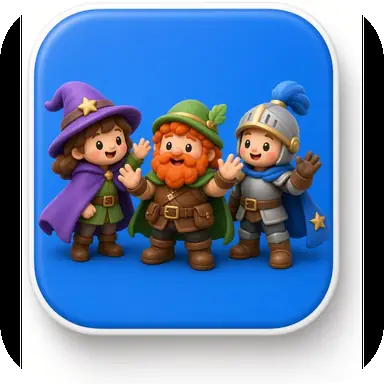
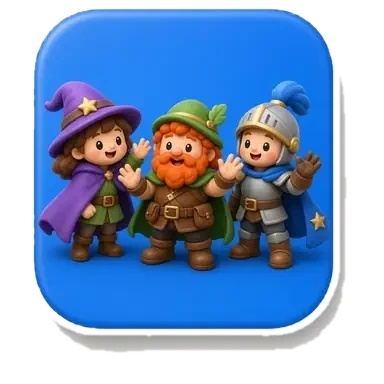
学習するボタンの下に、ほかの施設のアイコンを並べる。絵の背景を透明にする（判断325）
Claude-Session: https://claude.ai/code/session_01XyPdx9GvFrV21oECaXxgAy

diff --git a/js/ui/renewal.js b/js/ui/renewal.js
@@ -304,6 +304,21 @@
    button(R.records,function(){U.show('study',{tab:'records'});},'text-button'),button(R.exam,function(){U.show('study',{tab:'exam'});},'text-button'),button(R.diagnosis,function(){U.show('study',{tab:'diagnosis'});},'text-button'),button(R.redeem,function(){U.openRedeem();},'text-button')
   ]));
  }
+ // 町のほかの施設（判断324）。絵は img/art/fac-*.webp。使えるのは、チケット引換所（引換所）だけ。ほかは、これから作る
+ var FACILITIES=[
+  {id:'weapon',name:R.facWeapon},{id:'armor',name:R.facArmor},{id:'item',name:R.facItem},{id:'tavern',name:R.facTavern},
+  {id:'party',name:R.facParty},{id:'magic',name:R.facMagic},{id:'ticket',name:R.facTicket,open:function(){U.openRedeem();}},{id:'training',name:R.facTraining}
+ ];
+ function facilityGrid(){
+  return E('nav',{class:'facility-grid',attrs:{'aria-label':R.facilities}},FACILITIES.map(function(f){
+   return E('button',{class:'facility-btn'+(f.open?'':' is-soon'),attrs:{type:'button','data-facility':f.id,'aria-label':U.plain(f.name)+(f.open?'':'（'+U.plain(R.facSoon)+'）')},on:{click:function(){
+    if(f.open){f.open();return;}
+    U.modal({title:f.name,body:E('p',{class:'facility-soon',rich:R.facSoonText}),buttons:[{label:U.T('back'),class:'ghost'}]});
+   }}},[
+    U.artImg('fac-'+f.id+'.webp','facility-icon'),E('span',{class:'facility-name',rich:f.name})
+   ]);
+  }));
+ }
  var originalBase=U.screens.base.render;
  U.screens.base.render=function(main){
   main.appendChild(E('section',{class:'home-mission'},[
@@ -315,6 +330,9 @@
   // スマホでは、上の見出しと説明を出さず、「学習する」を、風景（フィールドマップ）の下に置く（判断315。PC では、上のボタンだけを出す）
   var scene=main.querySelector('.scene');
   if(scene&&scene.parentNode)scene.parentNode.insertBefore(button(R.start+' →',function(){U.show('study',{tab:'learn'});},'rn-button primary home-start-mobile'),scene.nextSibling);
+  // 学習するボタンの下に、ほかの施設のアイコン（スマホでは横4つ。判断324）。いま使えるのはチケット引換所だけ。あとは準備中
+  var facilities=facilityGrid();
+  if(scene&&scene.parentNode)scene.parentNode.insertBefore(facilities,(scene.nextSibling&&scene.nextSibling.nextSibling)||null);
   main.appendChild(E('section',{class:'home-steps'},[
    E('div',{},[E('span',{text:'01'}),E('strong',{text:R.stepLearn}),E('p',{text:R.stepLearnDesc})]),
    E('div',{},[E('span',{text:'02'}),E('strong',{text:R.stepTown}),E('p',{text:R.stepTownDesc})]),

diff --git a/js/renewal-texts.js b/js/renewal-texts.js
@@ -6,7 +6,9 @@
   wantResource:'欲しい資材',noResource:'指定なし',resourceAutoHelp:'指定なしの場合は、不足している資材を自動で選びます。',
   rewardSpecified:'今回の資材：{resource}。選んだ資材を獲得します。',
   totalQuestions:'全{n}問',correctQuestions:'正解 {n}問',reviewQuestions:'要復習 {n}問',generatedNote:'登録問題の進み具合。計算問題は自動生成でも出題します。',
-  todayResource:'きょうの資材',dailyRandomShort:'ランダム',dailyNote:'{手|て}に{入|はい}る資材は教科ごとに毎日{変|か}わります（☆はランダムです）',dailyRandomHelp:'ランダム（4つの資材のどれかがもらえる）',brandCaption:'{君|きみ}の{学|まな}びの熱量で 町に雪解けを',home:'ホーム',town:'町',settings:'設定',records:'学習記録',explore:'探索',
+  todayResource:'きょうの資材',dailyRandomShort:'ランダム',dailyNote:'{手|て}に{入|はい}る資材は教科ごとに毎日{変|か}わります（☆はランダムです）',dailyRandomHelp:'ランダム（4つの資材のどれかがもらえる）',facilities:'ほかの施設',facSoon:'準備中',facSoonText:'この{施設|しせつ}は、まだ{準備中|じゅんびちゅう}です。もう{少|すこ}し、まっていてね。',
+  facWeapon:'{武器|ぶき}{屋|や}',facArmor:'{防具|ぼうぐ}{屋|や}',facItem:'{道具|どうぐ}{屋|や}',facTavern:'{酒場|さかば}',facParty:'{仲間|なかま}{紹介所|しょうかいじょ}',facMagic:'{魔法|まほう}{研究所|けんきゅうじょ}',facTicket:'チケット{引換所|ひきかえじょ}',facTraining:'{訓練所|くんれんじょ}',
+  brandCaption:'{君|きみ}の{学|まな}びの熱量で 町に雪解けを',home:'ホーム',town:'町',settings:'設定',records:'学習記録',explore:'探索',
   learning:'LEARNING ROOM',chooseGrade:'あなたの学年を教えてください',gradeIntro:'学年に合った問題から、すぐに始められます。あとから設定で変えられます。',
   start:'学習する',subjects:'教科を選ぶ',subjectHeading:'今日は、何を学ぼう？',subjectIntro:'教科を１つ選んで、雪原の町に新しい熱を届けよう。',
   smallSteps:'小さな「わかった」が、町の力になる。',todayHeat:'今日も、ひとつずつ。',subjectLead:'問題を解くと、資材と熱量がたまります。自分のペースで進めよう。',

diff --git a/css/renewal.css b/css/renewal.css
@@ -429,3 +429,14 @@ body[data-screen="exploreQuiz"] main#screen{max-width:1280px;padding-top:15px}
  .subject-top .rn-heading p.daily-note{grid-area:note;justify-self:start;margin:0;padding:4px 10px;font-size:min(.8125rem,2.85vw)}
  .subject-top-actions{grid-area:actions;margin:0}
 }
+
+/* 町のほかの施設（判断324）：学習するボタンの下。スマホは横4つ、広い画面は横8つ */
+.facility-grid{display:grid;grid-template-columns:repeat(4,minmax(0,1fr));gap:10px 8px;margin:4px 0 18px}
+.facility-btn{display:flex;flex-direction:column;align-items:center;gap:4px;padding:0;border:0;background:none;cursor:pointer;color:var(--rn-navy,#1f4a68);font-weight:800;min-width:0}
+.facility-btn .facility-icon{display:block;width:100%;max-width:92px;aspect-ratio:1/1;object-fit:contain;filter:drop-shadow(0 2px 3px rgba(23,76,112,.25));transition:transform .12s}
+.facility-btn:hover .facility-icon,.facility-btn:focus-visible .facility-icon{transform:translateY(-2px)}
+.facility-btn.is-soon .facility-icon{filter:drop-shadow(0 2px 3px rgba(23,76,112,.2)) saturate(.85)}
+.facility-btn:focus-visible{outline:3px solid #efa64b;outline-offset:3px;border-radius:14px}
+.facility-name{font-size:.6875rem;line-height:1.25;text-align:center;text-wrap:balance}
+.facility-soon{margin:8px 0 14px;text-align:center}
+@media(min-width:761px){.facility-grid{grid-template-columns:repeat(8,minmax(0,1fr));gap:12px;margin:10px 0 24px}.facility-btn .facility-icon{max-width:104px}.facility-name{font-size:.8125rem}}

diff --git a/CLAUDE.md b/CLAUDE.md
@@ -9,7 +9,7 @@
 - 物語とコンセプト：`STORY.md`（文言・絵・新しい機能を考えるときに読む）
 - 仕様：`SPEC.md`（v0.1＋v0.4 の勉強量ポイントと引換所）、`SPEC_v0.2.md`（探索。矛盾したらこちらが優先）、`SPEC_save_integrity.md`、`SPEC_theme.md`、`SPEC_theme_default_day.md`、`SPEC_v0.3.md`、`SPEC_v0.3_battle.md`
 - 設計：`DESIGN.md`（v0.2 は第12章、v0.3 戦闘は第13章、v0.4 は第14章）
-- **判断した点（19〜）と進捗の詳細：`DECISIONS.md`**。仕様にない判断をしたら、その末尾に番号を続けて追記する（次は 322。206〜220 は ChatGPT（Codex）のリニューアル、223 は ChatGPT の算数文章題の図）。関係する機能を変える前に、該当する判断を検索して読む
+- **判断した点（19〜）と進捗の詳細：`DECISIONS.md`**。仕様にない判断をしたら、その末尾に番号を続けて追記する（次は 326。206〜220 は ChatGPT（Codex）のリニューアル、223 は ChatGPT の算数文章題の図）。関係する機能を変える前に、該当する判断を検索して読む
 - 問題データの書き方：`QUESTIONS_GUIDE.md`（`questions/*.js` を作る・直す前に必ず読む。単元と図の形式は「単元と図」＝判断221）
 - リニューアル（ChatGPT で作った学習画面・小4算数の図解100問）：`RENEWAL.md`、`QUESTIONS_100.md`。算数の文章題55問への図（判断223）：`MATH_WORD_DIAGRAMS.md`（図の種類・使った問題）、依頼の記録は `DIAGRAM_REQUESTS.md`（完了）
 - 完成報告：`REPORT.md`（v0.1）、`REPORT_v0.2.md`、`REPORT_v0.3.md`、`REPORT_v0.4.md`、`REPORT_sync.md`（データの保存）
@@ -50,6 +50,7 @@
 - 小5理科（判断284）：単元を9登録し、全9単元の手作り324問を `questions/science_g5_hand.js` に書いた（reviewed: false。各単元とも基礎9・標準15・発展12）。図は、SVG 58問を ChatGPT が付け（`DIAGRAM_REQUESTS_16.md`・`HAND_SCI5_DIAGRAMS.md`。判断289。答えを見せる3問は判断290で外した）、絵16問を Grok が付けた（`DIAGRAM_REQUESTS_17.md`。判断285・286・288。プロンプトの記録は `HAND_SCI5_PICTURES.md`）。小5理科の図は計74問（判断312：`river_026` の SVG を外し、Grok に絵を頼んだ＝`DIAGRAM_REQUESTS_20.md`。絵が付くまでは図なし）
 - 小5社会（判断291）：単元を10登録し、全10単元の手作り360問を `questions/social_g5_hand.js` に書いた（reviewed: false。各単元とも基礎9・標準15・発展12。原作の12問は単元だけ移した。図は、絵85枚（110問）を Grok が付けた（`DIAGRAM_REQUESTS_18.md`。判断292・293・294。プロンプトの記録は `HAND_SOC5_PICTURES.md`。新聞など4枚は作り直して差しかえ済み）。地図の SVG 48問は ChatGPT が付けた（`DIAGRAM_REQUESTS_19.md`・`HAND_SOC5_DIAGRAMS.md`。判断295・296。色の範囲の図9問は、県の形・沿岸の細い帯に直して差しかえ済み。判断297・298・`SOCIAL_MAP_DATA.md`）。統計のグラフを読む問題は、判断316で33問を作った＝`questions/social_g5_stats.js`）
 - 学習で獲得できる資材は、その日だけ教科で決まる（判断319。`js/daily.js`。5教科のうち4教科に4資材を1つずつ、1教科は問題ごとにランダム「☆」、朝4時で切りかわる。資材を選ぶボタンはなくした。入れ替えの詰み対策は保留）
+- 町のほかの施設（判断324・325）：「学習する」の下に、武器屋・防具屋・道具屋・酒場・仲間紹介所・魔法研究所・チケット引換所・訓練所の絵のアイコン（`img/art/fac-*.webp`。Grok）を並べた（スマホは横4つ）。使えるのはチケット引換所だけで、ほかは準備中（これから作る）
 - 手書き（判断266・282）：国語で、答えが漢字の書き問題と、英語で、答えが英語の単語（2〜12文字）の書き問題は、手書きの欄に書いて、お手本とくらべて、自分で「かけた」「まちがえた」を選ぶ（ポイントは半分＝`balance.HANDWRITING.REWARD_RATE`。英語は四本線）。端末の手書き入力（iPad のスクリブル・Android の手書き入力）が使えれば、「キーボードで入力する」で、自動判定（満点）。`js/ui/handwriting.js`。AI での判定は、サーバーを持つときの課題
 - データの保存（サーバー同期。判断299〜310、`SPEC_sync.md`、`REPORT_sync.md`）：Supabase。ログインはプレイヤーコード＝1人に1つ（メール・本名なし。判断307）。S-1〜S-7 完了（設計・SQL（`supabase/1〜4_*.sql`は実行済み）・通信とセーブの同期・競合の画面・コードの印刷と引き継ぎ・学習の履歴の送信・保護者の記録画面・手動確認の手順と完成報告）。設定の「データの保存」は、ふつうの画面に出る（判断310。`config.SYNC.ENABLED: true`）が、同期は、おうちの方が同意してオンにした端末だけが行う（既定はオフ）。ここだけは `fetch` を使う（オフなら通信ゼロ）。結合テストの道具：`node tests/tools/sync-e2e-pg.cjs`（Postgres 16 が要る）。Supabase の一時停止の対策：`.github/workflows/supabase-keepalive.yml`（判断309）
 - 自動テスト 748件すべて成功、`node tests/simulate.js` はすべて目標内。小5の図118問（第3〜5弾）は `HAND_G5_DIAGRAMS.md`。小4理科87問（第6・7弾）は判断250・`HAND_SCI4_DIAGRAMS.md`、図を追加してPRでレビュー待ち。

diff --git a/DECISIONS.md b/DECISIONS.md
@@ -930,6 +930,13 @@
 - `tests/ui-compact-subjects.cjs` を、新しい並びに合わせた（主人公の絵が学年のボタンの上）。
 
 
-## 判断322：町の施設アイコン8枚を置いた
+## 判断324：町の施設アイコン8枚を置いた
 - `FACILITY_ICON_REQUESTS.md` のとおり、`img/art/fac-weapon.webp` から `fac-training.webp` まで8枚を置いた（384×384、角丸、四すみ透明、WebP、60KB以下）。画面への組み込みはしていない。
 - 使ったプロンプトは `HAND_FACILITY_ICONS.md`。
+
+## 判断325：「学習する」ボタンの下に、ほかの施設のアイコンを並べた（スマホは横4つ）
+- ユーザーの依頼：学習するボタンの下に、武器屋・防具屋・道具屋・酒場・仲間紹介所・魔法研究所・チケット引換所・訓練所のアイコン（四角いアイコン）を、スマホで横4つの割合で並べる。絵は Grok（判断324）。
+- 町の画面（`js/ui/renewal.js` の `facilityGrid`）：風景と「学習する」ボタンの下に、8つのアイコンボタン（絵とその下に名前）。スマホ（幅 760px 以下）は横4つ・2行、広い画面は横8つ。いま使えるのは**チケット引換所だけ**（押すと、引換所の画面）。ほかの7つは、押すと「この施設は、まだ準備中です。もう少し、まっていてね。」のウィンドウ（これから、1つずつ作る。訓練所の中身も未定）。
+- **絵の直し（Claude）**：Grok の8枚は、四すみだけ透明で、左右が黒い帯、まわりが白い背景と影になっていた（アイコンの外に黒い・白い四角が見える）。端から続く黒と白・うす灰色を透明にして、縁をなめらかにした（`fac-*.webp` を書きかえた。13〜19KB）。タイルの白いふちも、いっしょに透明になった。
+- `tests/ui-facilities.cjs`（8つ・絵が読める・スマホで4つ×2行・準備中のウィンドウ・引換所へ・広い画面で8つ）を足した。
+

diff --git a/tests/MANUAL.md b/tests/MANUAL.md
@@ -379,6 +379,13 @@
 | 18b-4 | 朝4時をすぎると割り当てがかわる（設定の端末の時計を、前日の3:59 と当日の4:00 にして確かめる）。同じ日なら、アプリを開き直しても、別の端末でも同じ割り当て ★ |
 | 18b-5 | スマホ・タブレットで、カードのアイコンが見切れず、問題の画面の見出しにも、きょうの資材が出る ★ |
 
+## 18c. 町のほかの施設のアイコン（判断325。★＝実機で確認）
+
+| # | 確認すること |
+|---|---|
+| 18c-1 | 町の画面で、「学習する」ボタンの下に、8つの施設のアイコン（スマホは横4つ×2行）が並び、絵・名前が見切れない（自動テスト：`tests/ui-facilities.cjs`）★ |
+| 18c-2 | チケット引換所を押すと、引換所の画面が開く。ほかの施設を押すと、「準備中」のウィンドウが開く |
+
 ## 19. データの保存（サーバー同期。SPEC_sync.md・判断299〜304）
 
 準備：GitHub Pages の公開版（https://torinosuke-games.github.io/fro-fro/）を、2台の端末（A：スマートフォン、B：別のスマートフォンかパソコン）で開きます。同期の画面は、判断310 から、ふつうの設定画面に出ます（デバッグ画面は不要）。Supabase のダッシュボード（Table Editor）で `profiles`・`saves`・`attempts` が見られるようにしておきます。通信の確認は、パソコンのブラウザの開発者ツール（Network）が便利です。
